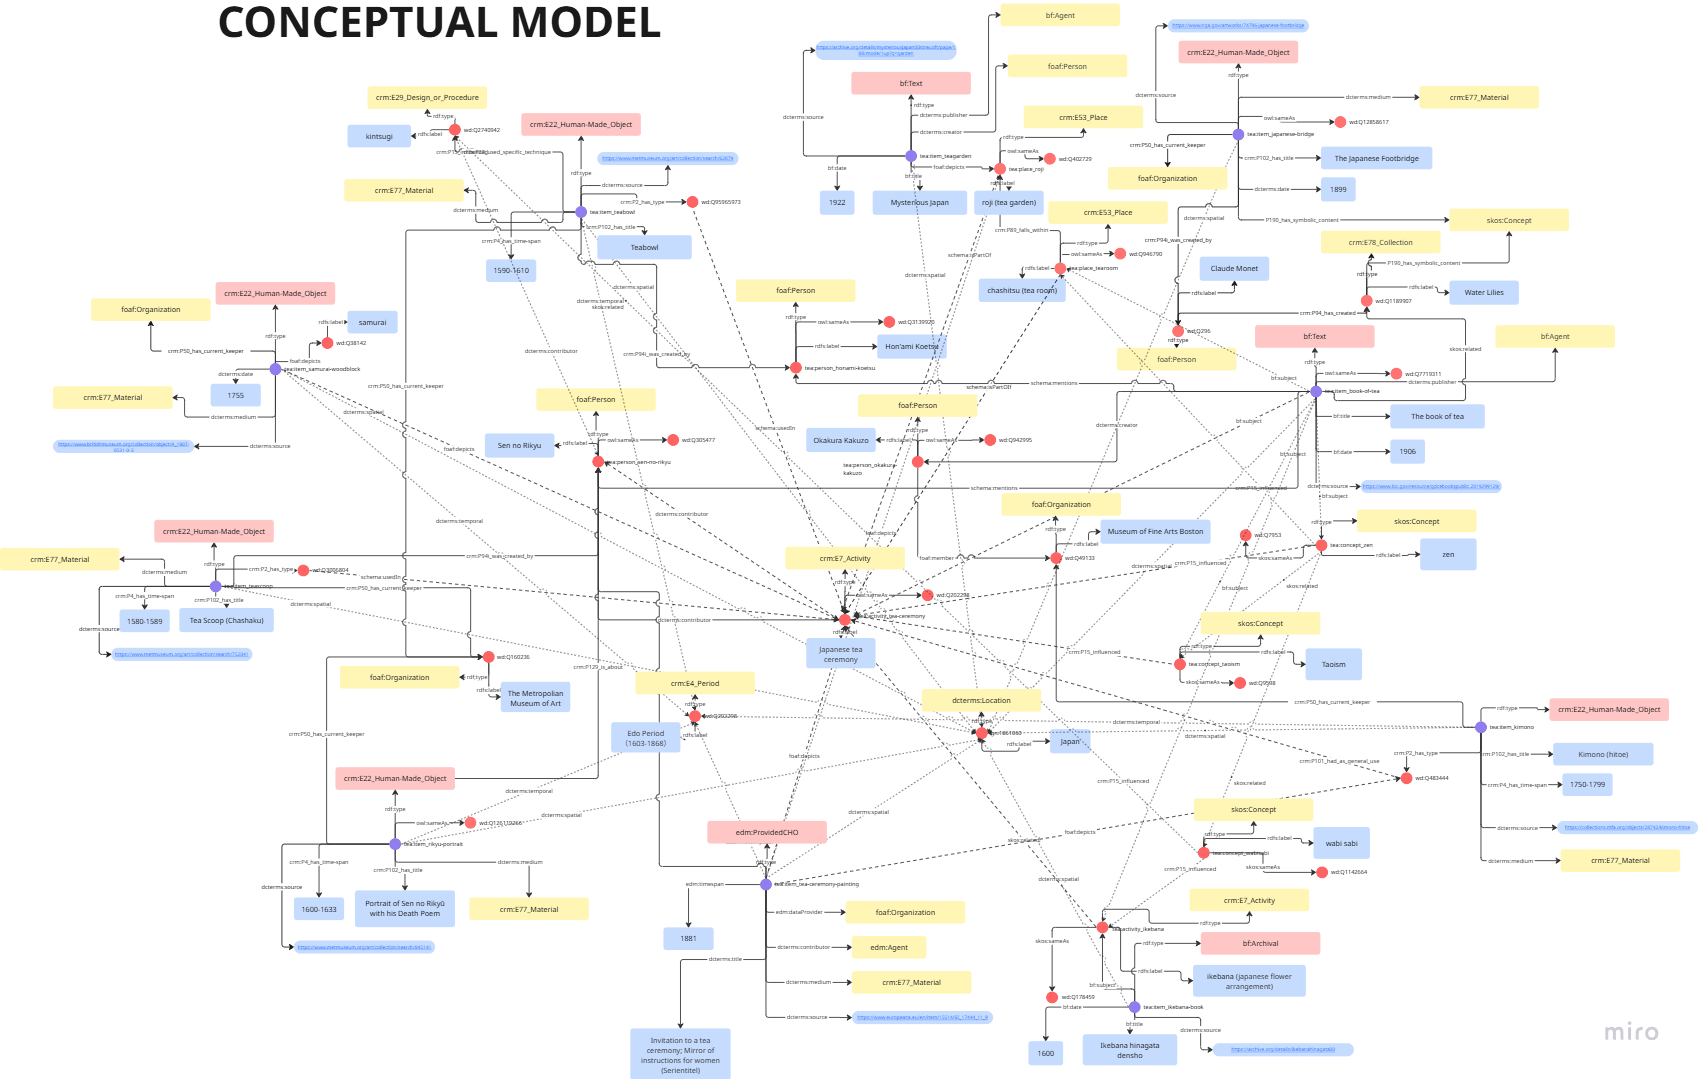
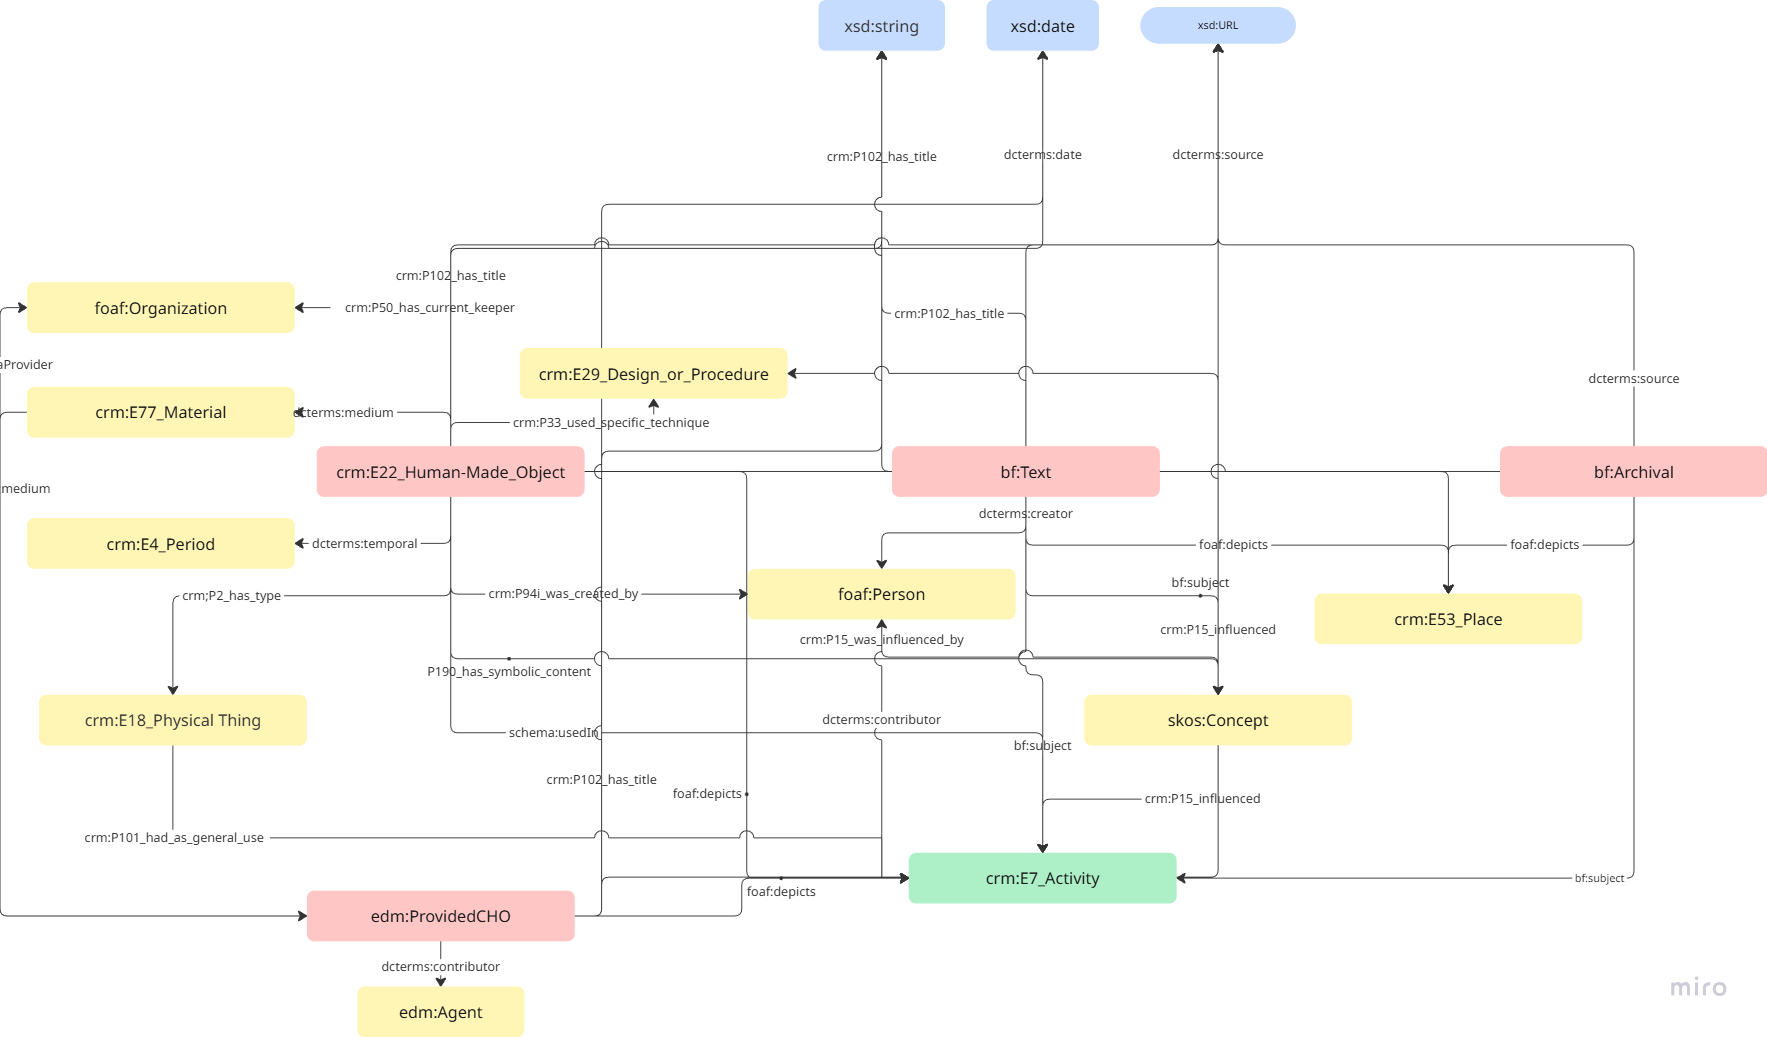
edit conceptual model

diff --git a/knowledge_organization.html b/knowledge_organization.html
@@ -158,7 +158,7 @@ Cards that will link to a bigger image and description
                 <div class="frame m-4">
                   <iframe 
                     class="miro-frame"
-                    src="https://miro.com/app/live-embed/uXjVIheo92g=/?focusWidget=3458764633800244146&embedMode=view_only_without_ui&embedId=500150248142"
+                    src="https://miro.com/app/live-embed/uXjVIheo92g=/?focusWidget=3458764650002773503&embedMode=view_only_without_ui&embedId=199170395479"
                     frameborder="0" 
                     scrolling="no" 
                     allow="fullscreen; clipboard-read; clipboard-write" 

diff --git a/index.html b/index.html
@@ -22,7 +22,7 @@
 
         <!--put url of website!!!-->
         <meta name="DC.identifier" content="https://github.com/projectlod/aLODofTea" />
-        <meta name="DC.type" scheme="DCTERMS.DCMIType" content="LOD Resource/>
+        <meta name="DC.type" scheme="DCTERMS.DCMIType" content="LOD Resource"/>
 
         <!--RFC 3066 scheme for language codes-->
         <meta name="DC.language" scheme="DCTERMS.RFC3066" content="en" />
